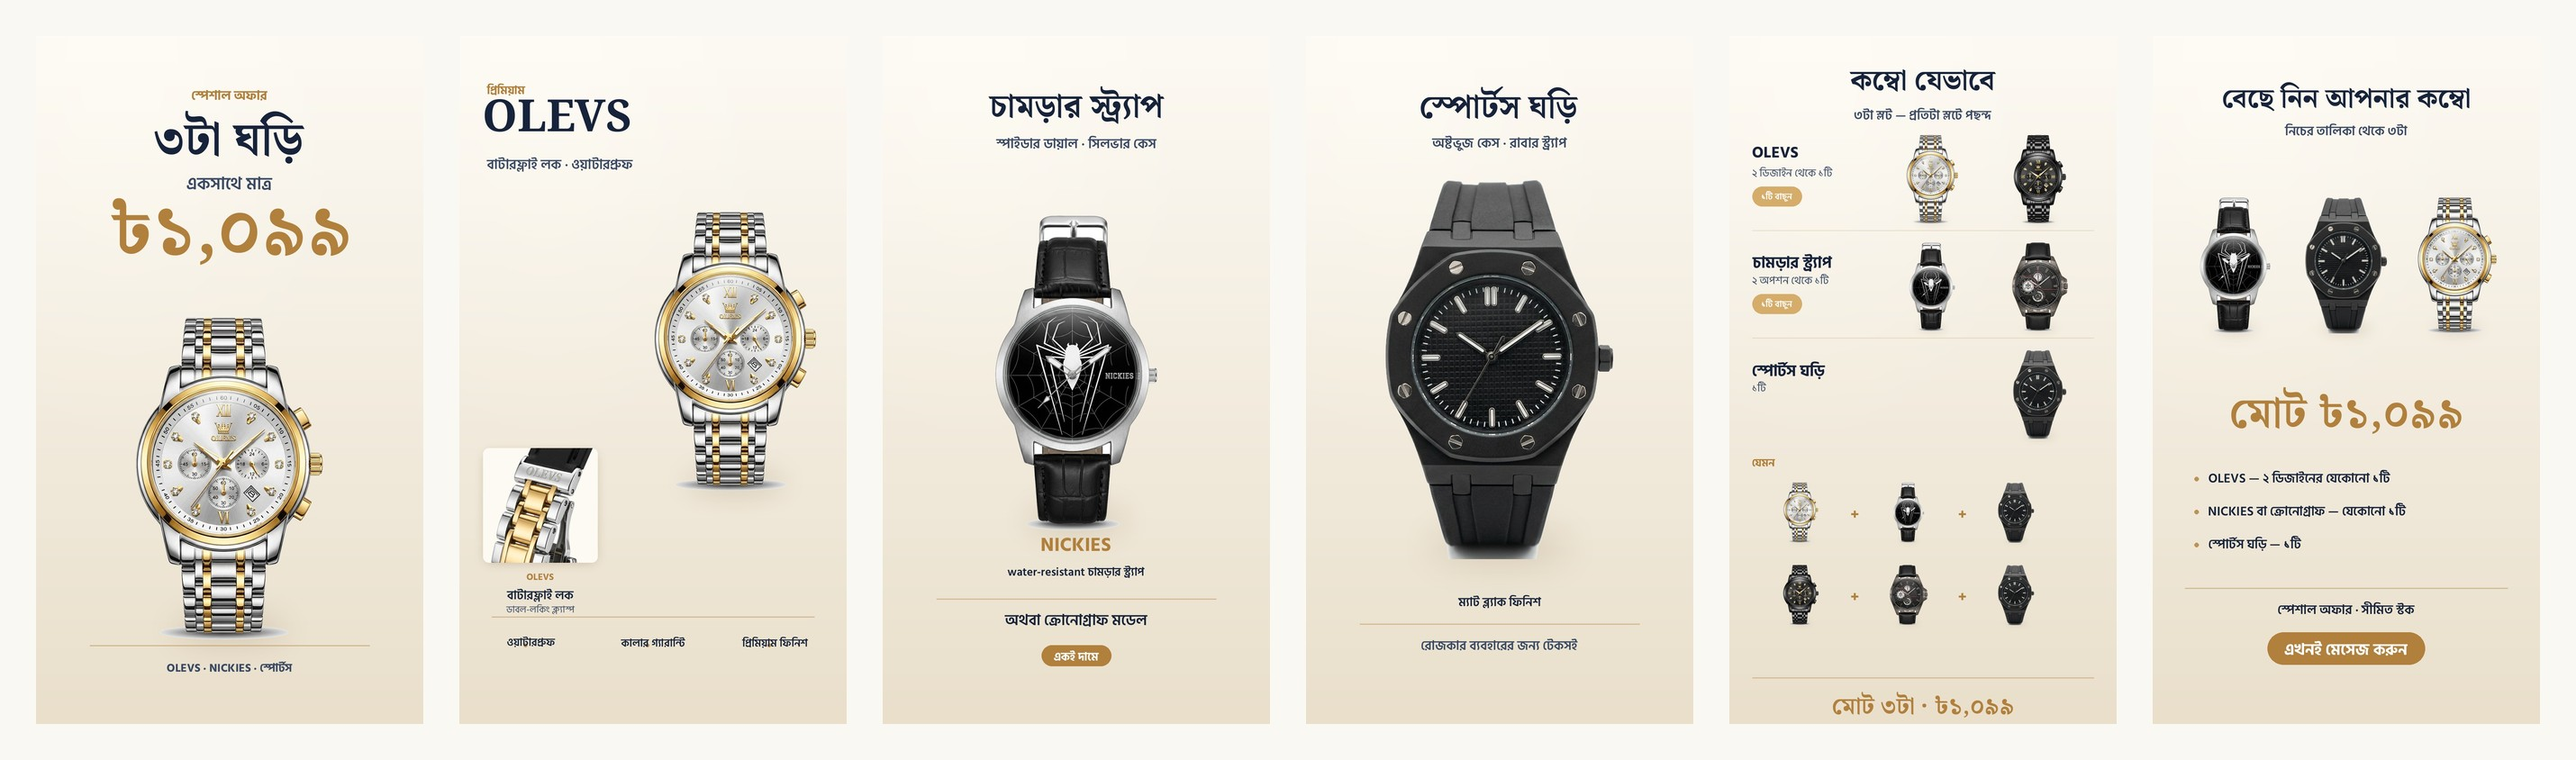
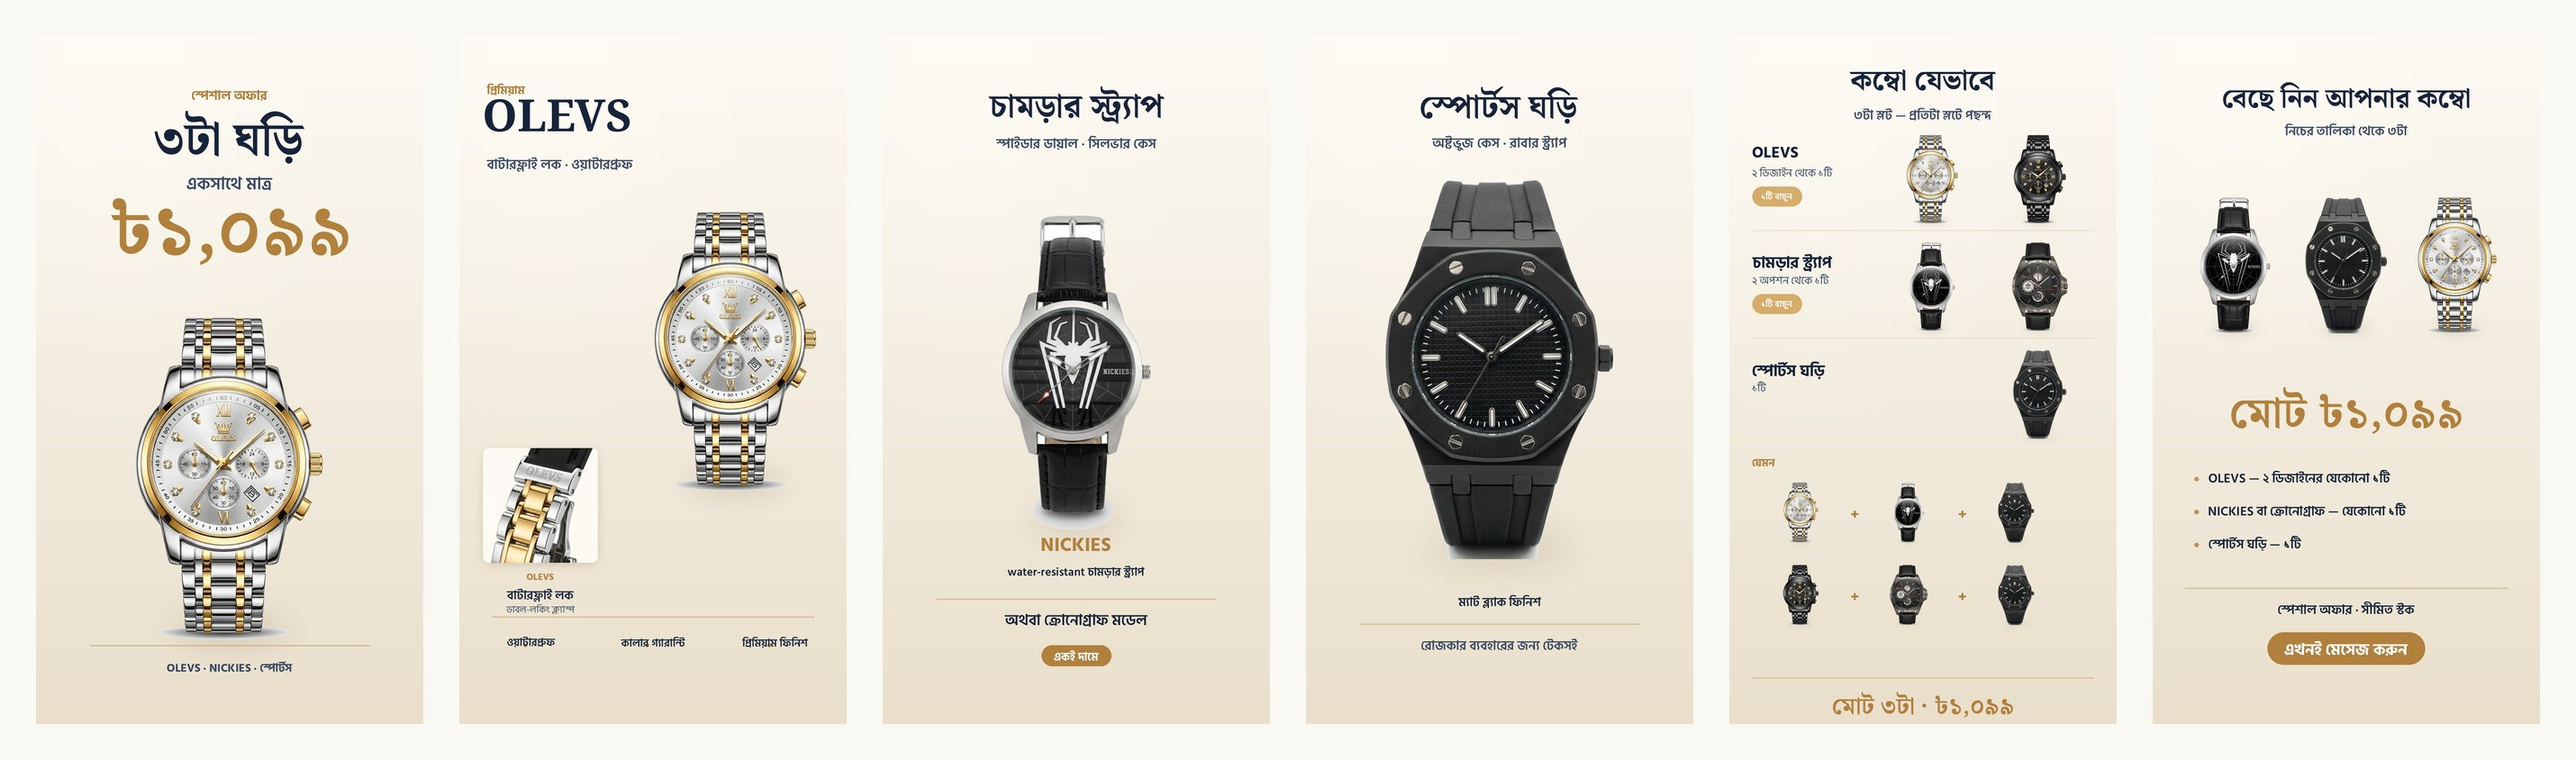
watch_ad: NICKIES - original bold plate for the single hero, fine plate for small thumbnails

Changed region(s): [[0.3734, 0.2773, 0.4668, 0.7085]]

diff --git a/.studio/watch_ad/stills2.py b/.studio/watch_ad/stills2.py
@@ -18,11 +18,11 @@ import rbtext as T
 
 OUT = os.path.join(HERE, "stills2")
 os.makedirs(OUT, exist_ok=True)
-CUT = os.path.join(HERE, "cut2")
+CUT = os.path.join(HERE, "cut3")
 w, h = 1080, 1920
 
 SPR = {}
-for k in ("w_olevs_a", "w_olevs_b", "w_spider", "w_t4g", "w_sport", "w_lock"):
+for k in ("w_olevs_a", "w_olevs_b", "w_spider", "w_spider_big", "w_t4g", "w_sport", "w_lock"):
     SPR[k] = Image.open(os.path.join(CUT, k + ".png")).convert("RGBA")
 
 
@@ -106,7 +106,7 @@ def s03():
     bg = stage(w, h)
     txt(bg, "চামড়ার স্ট্র্যাপ", "serif-bold", 92, (w / 2, 140), NAVY, align="center")
     txt(bg, "স্পাইডার ডায়াল · সিলভার কেস", "sans-semi", 38, (w / 2, 278), NAVY_SOFT, align="center")
-    sprite(bg, "w_spider", w / 2, 940, 880)
+    sprite(bg, "w_spider_big", w / 2, 940, 880)
     txt(bg, "NICKIES", "sans-bold", 54, (w / 2, 1400), CARAMEL, align="center")
     txt(bg, "water-resistant চামড়ার স্ট্র্যাপ", "sans-semi", 32, (w / 2, 1478), NAVY, align="center")
     hairline(bg, 150, w - 150, 1570, CARAMEL, 2, 110)

diff --git a/.studio/watch_ad/cutout2.py b/.studio/watch_ad/cutout2.py
@@ -10,7 +10,7 @@ from collections import deque
 
 HERE = os.path.dirname(os.path.abspath(__file__))
 SRC = os.path.join(HERE, "gen2")
-OUT = os.path.join(HERE, "cut2")
+OUT = os.path.join(HERE, "cut3")
 os.makedirs(OUT, exist_ok=True)
 
 
@@ -51,6 +51,8 @@ def key(path, dark_tol=30, sat_tol=16):
         img = img.crop(bb)
     return img
 
+
+EXTRA = {"w_spider_big": "w_spider_big.jpg"}
 
 if __name__ == "__main__":
     for p in sorted(glob.glob(os.path.join(SRC, "*.jpg"))):
